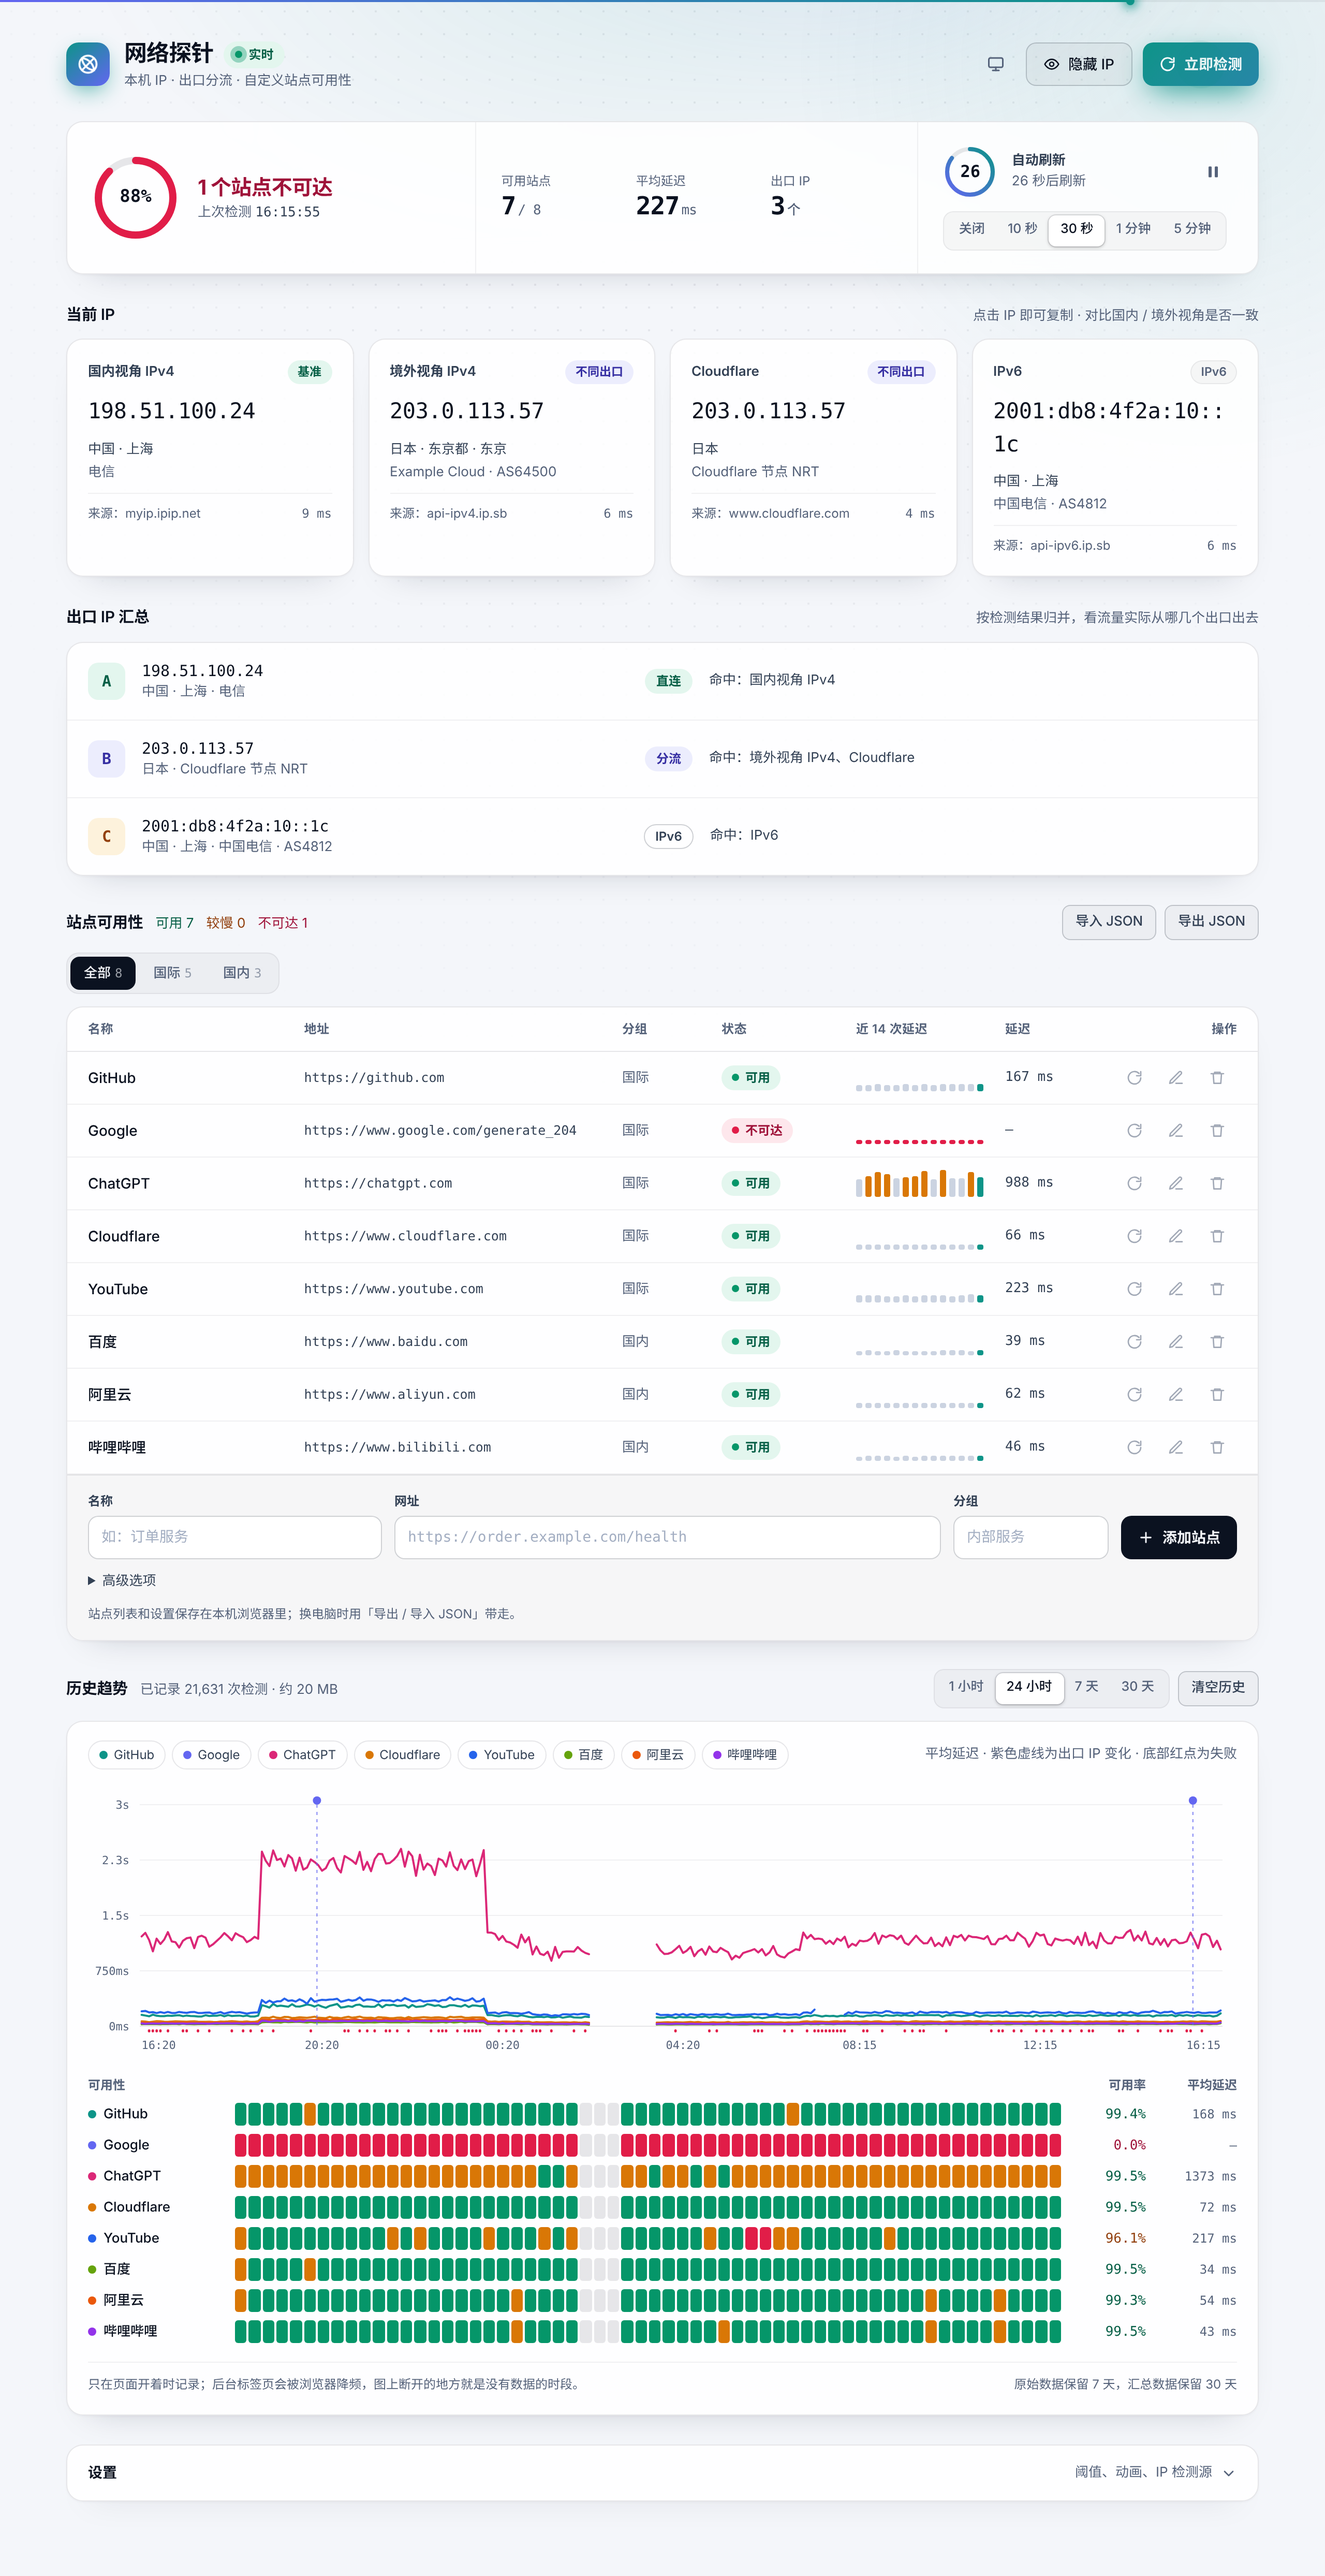
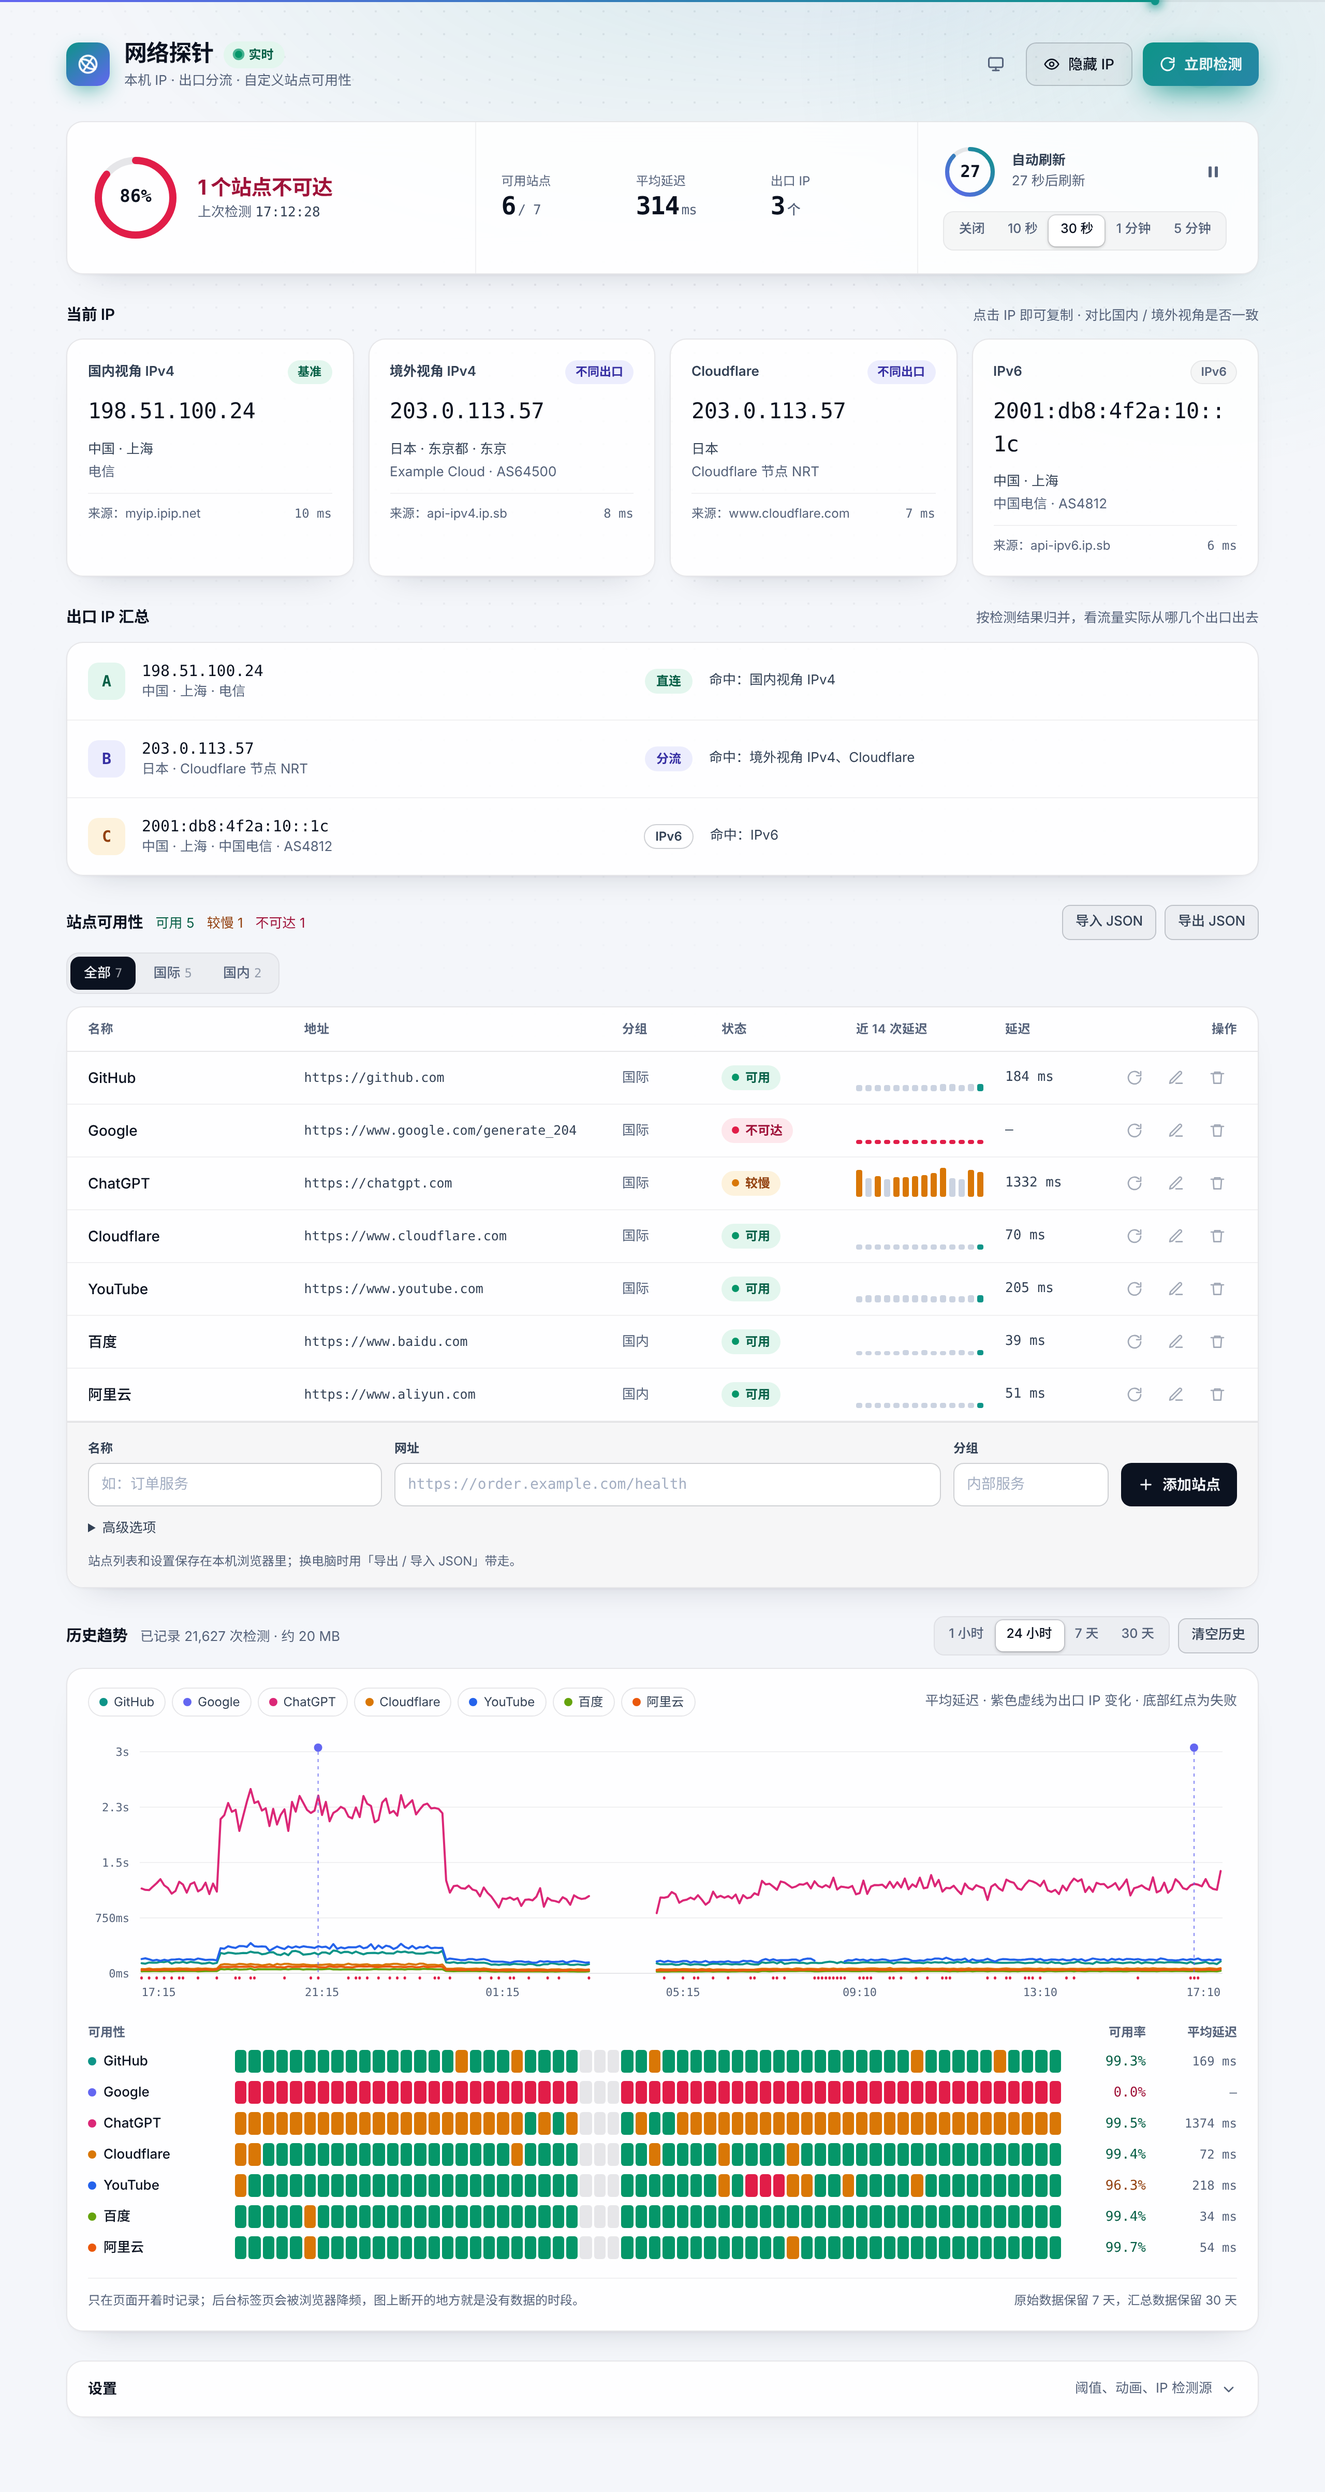
feat: 支持合并导入站点清单，默认去掉哔哩哔哩
- 导入的 JSON 带 "merge": true 时，只把新站点插到最前面，同网址跳过，
  其他站点和设置保持不变；适合在团队内单独分发内部服务清单
- 默认站点去掉哔哩哔哩；配置升级到 v2，已有配置自动移除旧默认的哔哩哔哩
- README 补充合并导入说明，更新截图

Claude-Session: https://claude.ai/code/session_01YaRiqK5eUfuTnFtn64mmip

diff --git a/index.html b/index.html
@@ -503,8 +503,9 @@ body.no-motion *,body.no-motion *::before,body.no-motion *::after{animation-dura
 /* ---------- 默认配置 ---------- */
 const LS_KEY = 'net-probe:config:v1';
 const HIST_LEN = 14;
+const CONFIG_VERSION = 2;
 const DEFAULTS = {
-  version: 1,
+  version: CONFIG_VERSION,
   interval: 30,
   slowMs: 1000,
   timeoutMs: 8000,
@@ -529,8 +530,7 @@ const DEFAULTS = {
     { id: 's4', name: 'Cloudflare', url: 'https://www.cloudflare.com',          group: '国际' },
     { id: 's5', name: 'YouTube',    url: 'https://www.youtube.com',             group: '国际' },
     { id: 's6', name: '百度',       url: 'https://www.baidu.com',               group: '国内' },
-    { id: 's7', name: '阿里云',     url: 'https://www.aliyun.com',              group: '国内' },
-    { id: 's8', name: '哔哩哔哩',   url: 'https://www.bilibili.com',            group: '国内' }
+    { id: 's7', name: '阿里云',     url: 'https://www.aliyun.com',              group: '国内' }
   ]
 };
 const INTERVALS = [[0, '关闭'], [10, '10 秒'], [30, '30 秒'], [60, '1 分钟'], [300, '5 分钟']];
@@ -658,8 +658,17 @@ function parseEcho(t) {
 
 /* ---------- 配置读写 ---------- */
 function hostOf(u) { try { return new URL(u).host; } catch (e) { return u; } }
+const normUrlKey = (u) => String(u || '').trim().replace(/\/+$/, '').toLowerCase();
+/* 旧配置升级：v1 → v2 去掉旧版默认带的哔哩哔哩（用户自己加的不动） */
+function migrate(c) {
+  if (!c || !Array.isArray(c.sites) || (c.version || 1) >= CONFIG_VERSION) return c;
+  const sites = c.sites.filter((s) => !(s.id === 's8' && /bilibili\.com/.test(s.url || '')));
+  return Object.assign({}, c, { sites, version: CONFIG_VERSION });
+}
 function normalize(c) {
+  c = migrate(c);
   const out = Object.assign(clone(DEFAULTS), c || {});
+  out.version = CONFIG_VERSION;
   if (!Array.isArray(out.sites)) out.sites = clone(DEFAULTS.sites);
   if (!Array.isArray(out.ipSources) || !out.ipSources.length) out.ipSources = clone(DEFAULTS.ipSources);
   out.sites = out.sites.filter((s) => s && s.url).map((s) => ({
@@ -1837,6 +1846,20 @@ $('fileImport').addEventListener('change', async (e) => {
   try {
     const data = JSON.parse(await f.text());
     if (!data || !Array.isArray(data.sites)) throw new Error('缺少 sites');
+    if (data.merge === true) {
+      // 合并导入：只把新站点插到最前面，已有同网址的跳过，其他设置都不动
+      const have = new Set(cfg.sites.map((s) => normUrlKey(s.url)));
+      const add = normalize({ sites: data.sites }).sites
+        .filter((s) => !have.has(normUrlKey(s.url)))
+        .map((s) => Object.assign(s, { id: cfg.sites.some((x) => x.id === s.id) ? uid() : s.id }));
+      if (!add.length) { toast('文件里的站点都已经在列表里了'); return; }
+      cfg.sites = add.concat(cfg.sites);
+      state.tab = '全部';
+      save(); renderTabs(); renderSites(true); refreshHist(false);
+      toast('已合并 ' + add.length + ' 个站点' + (data.sites.length > add.length ? '，跳过 ' + (data.sites.length - add.length) + ' 个重复的' : ''));
+      checkSites(add.map((s) => s.id)).then(() => refreshHist(false));
+      return;
+    }
     let histMsg = '';
     if (data.history && DB.db && confirm('文件里带有历史记录，要用它替换本机的历史吗？\n选「取消」则只导入站点和设置。')) {
       await DB.restore(data.history);

diff --git a/README.md b/README.md
@@ -120,4 +120,20 @@ python3 -m http.server 8080
 - `theme` 可选 `system` / `light` / `dark`；只有 `themeSet` 为 `true` 时才使用 `theme` 的值，否则一律跟随系统。
 - 勾选「导出时包含历史数据」后，导出的文件会多一个 `history` 字段；导入这样的文件时会询问是否用它替换本机历史。
 
+### 合并导入：分享一份站点清单
+
+普通导入会**整体替换**本机配置。如果只是想把一批站点加进去，比如团队内部的服务清单，可以在文件里加上 `"merge": true`：
+
+```json
+{
+  "merge": true,
+  "sites": [
+    { "name": "订单服务", "url": "https://order.example.com/health", "group": "内部服务" },
+    { "name": "管理后台", "url": "https://admin.example.com", "group": "内部服务" }
+  ]
+}
+```
+
+导入时这些站点会插到列表最前面，网址已经存在的会跳过，其他站点和设置都不受影响。内部地址不适合放进公开仓库，建议用这种文件在团队里单独传。
+
 默认的第三方检测源（ipip.net、ip.sb、Cloudflare）是否允许跨域、能否访问，取决于对方服务和你所在的网络。哪个用不了，在设置里换掉就行。
